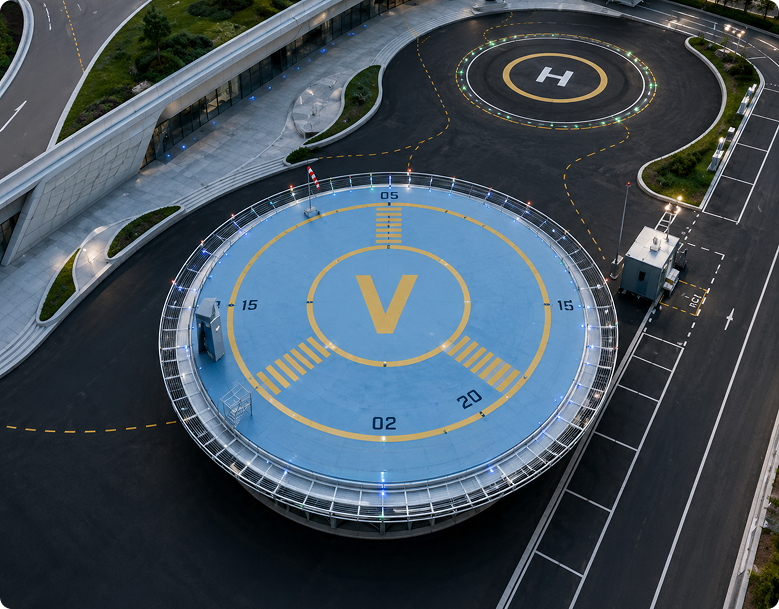
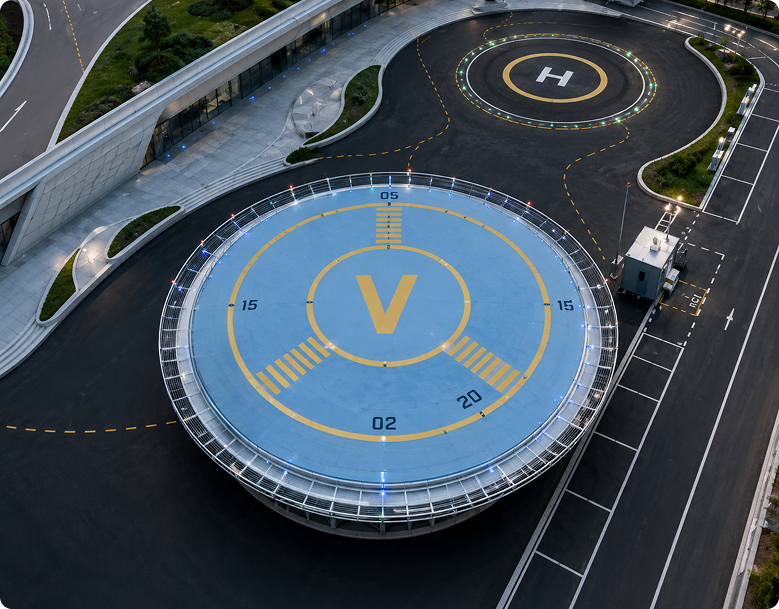
done

Changed region(s): [[0.2157, 0.468, 0.3389, 0.7176], [0.3697, 0.2496, 0.4313, 0.3744]]

diff --git a/app/heliports-&-vertiports-solutions/page.tsx b/app/heliports-&-vertiports-solutions/page.tsx
@@ -18,7 +18,7 @@ const HelideckPlatformSolutions = () => {
                 backgroundImage={"/hhero.png"}
             />
             <SecondHeli
-                heading="Reliable Heliports & Vertiports for Offshore & Onshore <br/> Operations"
+                heading="Reliable Heliports & Vertiports for Offshore, Urban & Remote Operations"
                 desc="Engineered for safety, durability, and operational efficiency, our heliport and vertiport solutions support secure helicopter landing operations across offshore, marine, industrial, and remote environments."
                 heading2="Built for Safe Aviation Operations"
                 desc2="Cranton’s heliport and vertiport solutions are designed to deliver stable, compliant, and high-performance landing areas for helicopters operating in demanding environments. Built using durable materials and precision engineering, our systems ensure long-term reliability, operational safety, and efficient deployment. <br /> <br /> From offshore energy facilities to temporary remote operations, our heliports and vertiports are tailored to meet aviation standards while supporting safe and uninterrupted helicopter access."
@@ -47,7 +47,7 @@ const HelideckPlatformSolutions = () => {
                 },
                 {
                     icon: "/h2.png",
-                    title: "Weather & Corrosion Resistant",
+                    title: "Weatherproof & Durable",
                     desc: "Designed to perform in challenging marine and offshore environments with long-lasting durability.",
                 },
                 {
@@ -68,13 +68,14 @@ const HelideckPlatformSolutions = () => {
                         image: "/hb.png",
                         imageAlt: "Engineering",
                         paragraphs: [
-                            "Our helideck systems are engineered to provide dependable helicopter access across offshore, marine, industrial, and emergency response operations. Combining structural reliability with aviation-focused safety, the platforms are built for continuous performance in critical environments.",
+                            "Cranton helideck platforms are engineered to provide safe, durable, and reliable landing infrastructure for offshore and land-based aviation operations. Manufactured using high-strength aluminium, our platforms are designed to perform in harsh environmental conditions while maintaining structural integrity, operational safety, and long-term efficiency.",
+                            "From permanent installations to portable deployment systems, every helideck platform is developed to meet international aviation standards and project-specific operational requirements. With a strong focus on lightweight construction, corrosion resistance, and low maintenance performance, Cranton delivers dependable solutions for critical aviation environments."
                         ],
                         points: [
-                            { title: "High-strength structural framework" },
-                            { title: "Optimized stability and safety" },
-                            { title: "Long operational lifespan" },
-                            { title: "Low maintenance requirements" },
+                            { title: "Lightweight Aluminium Construction",description: "Strong, corrosion-resistant structures designed for demanding environments." },
+                            { title: "Fixed & Portable Platform Solutions",description: "Flexible helideck systems for permanent, temporary, and remote operations."  },
+                            { title: "Engineered For Harsh Conditions",description: "Built to withstand offshore, marine, industrial, and remote environments."  },
+                            { title: "Safe, Durable & Compliant",description: "Designed to meet international aviation safety and operational standards."  },
                         ],
                     },
                 ]}
@@ -83,11 +84,12 @@ const HelideckPlatformSolutions = () => {
                 badge=""
                 heading="Where It's Used"
                 industries={[
-                    { name: "Offshore Oil & Gas Platforms", image: "/w11.png" },
-                    { name: "Marine & Vessel Operations", image: "/w12.png" },
-                    { name: "Industrial & Remote Facilities", image: "/w13.png" },
-                    { name: "Temporary Aviation Installations", image: "/w14.png" },
-                    { name: "Emergency Response Sites", image: "/w15.png" },
+                    { name: "Emergency & Medical Operations", image: "/w11new.png" },
+                    { name: "Marine & Vessel Operations", image: "/w12new.png" },
+                    { name: "Construction & Infrastructure Projects", image: "/w13.png" },
+                    { name: "Temporary Aviation Installations", image: "/w14new.png" },
+                    { name: "Emergency Response Sites", image: "/w15new.png" },
+                    { name: "Healthcare", image: "/w16new.png" },
                 ]}
                 className="md:py-0! md:pb-10!"
             />

diff --git a/components/second-heli.tsx b/components/second-heli.tsx
@@ -33,7 +33,7 @@ const SecondHeli = (props: HealthcareSectionProps) => {
                             </p>
                             <div>
                                 {/* Gradient Button with SVG Icon */}
-                                <Button>Inquire Now</Button>
+                                <Button href='/contact'>Inquire Now</Button>
                             </div>
                         </div>
 
@@ -56,49 +56,49 @@ const SecondHeli = (props: HealthcareSectionProps) => {
                         <h3 className="text-[20px] md:text-3xl lg:text-[36px] font-medium leading-[1.2] text-[#0a0f1e] mb-6">
                             {props.heading2 || "Trusted HIS Expertise for Healthcare Providers"}
                         </h3>
-                        <p className="text-md text-black mb-8" dangerouslySetInnerHTML={{ __html: props.desc2 || "" }}>
+                        <p className="text-md text-black mb-6" dangerouslySetInnerHTML={{ __html: props.desc2 || "" }}>
                         </p>
 
                         {/* Features Grid */}
-                        <div className="grid grid-cols-2 sm:grid-cols-2 gap-6">
+                        <div className="grid grid-cols-1 md:grid-cols-2 gap-2 md:gap-4">
                             {/* Feature 1 */}
-                            <div className="flex flex-col gap-4">
+                            <div className="flex flex-col gap-4 bg-[#F5F5F5] p-3 rounded-lg">
                                 <div>
                                     <h4 className="font-semibold text-foreground leading-tight mb-1">
                                         {props.titles[0]}
                                     </h4>
-                                    <p className="text-[12px] leading-4 md:leading-relaxed md:text-sm text-black">
+                                    <p className="text-[12px] leading-4 md:leading-[19px] md:text-[14px] text-black">
                                         {props.para[0]}
                                     </p>
                                 </div>
                             </div>
 
                             {/* Feature 2 */}
-                            <div className="flex flex-col gap-4">
+                            <div className="flex flex-col gap-4 bg-[#F5F5F5] p-3 rounded-lg">
                                 <div>
                                     <h4 className="font-semibold text-foreground leading-tight mb-1">
                                         {props.titles[1]}
                                     </h4>
-                                    <p className="text-[12px] leading-4 md:leading-relaxed md:text-sm text-black">
+                                    <p className="text-[12px] leading-4 md:leading-[19px] md:text-[14px] text-black">
                                         {props.para[1]}
                                     </p>
                                 </div>
                             </div>
 
                             {/* Feature 3 */}
-                            <div className="flex flex-col gap-4">
+                            <div className="flex flex-col gap-4 bg-[#F5F5F5] p-3 rounded-lg">
                                 <div>
                                     <h4 className="font-semibold text-foreground leading-tight mb-1">
                                         {props.titles[2]}
                                     </h4>
-                                    <p className="text-[12px] leading-4 md:leading-relaxed md:text-sm text-black">
+                                    <p className="text-[12px] leading-4 md:leading-[19px] md:text-[14px] text-black">
                                         {props.para[2]}
                                     </p>
                                 </div>
                             </div>
 
                             {/* Feature 4 */}
-                            <div className="flex flex-col gap-4">
+                            <div className="flex flex-col gap-4 bg-[#F5F5F5] p-3 rounded-lg">
                                 <div>
                                     <h4 className="font-semibold text-foreground leading-tight mb-1">
                                         {props.titles[3]}

diff --git a/app/heliports-&-vertiports-lighting-solutions/page.tsx b/app/heliports-&-vertiports-lighting-solutions/page.tsx
@@ -28,34 +28,33 @@ const HeliportsLightingSolutions = () => {
           "From precision landing guidance to environmental awareness, our lighting portfolio supports safe aircraft operations in even the most demanding conditions."
         }
         image2={"/heliport-vertiports/right.jpg"}
-        image1={"/heliport-vertiports/left.png"}
+        image1={"/heliport-vertiports/newleft.png"}
       />
       <HvGrey
         sections={[
           {
             title: "Complete Lighting Ecosystem",
             subtitle: "End-to-End Airside Visibility.",
-            image: "/heliport-vertiports/hv-gray.png",
+            image: "/heliport-vertiports/secondsection.png",
             imageAlt: "Engineering Precision",
 
             points: [
-              {
-                title:
-                  "Approach & Guidance Lighting – Clear visual cues for pilots",
-              },
-              {
-                title:
-                  "FATO & TLOF Lighting – Accurate landing and lift-off zone marking",
-              },
-              {
-                title:
-                  "Floodlighting Systems – Surface and obstacle visibility",
-              },
-              {
-                title:
-                  "Wind Direction Indicators – Real-time environmental awareness",
-              },
-              { title: "Perimeter Lighting – Enhanced safety boundaries" },
+            {
+    title: "LED Perimeter Lights (Surface Mounted)",
+    description: "Elevated lighting systems designed to clearly define helideck and landing area boundaries for safe operations."
+  },
+  {
+    title: "LED Perimeter Lights (Flush Mounted)",
+    description: "Low-profile inset lighting solutions that provide clear visual guidance while maintaining a smooth deck surface. "
+  },
+   {
+    title: "LED Wind Direction Indicator",
+    description: "Illuminated wind indication systems that provide pilots with clear wind direction visibility in all operating conditions. "
+  },
+   {
+    title: "LED Wind Direction Indicator",
+    description: "Illuminated wind indication systems that provide pilots with clear wind direction visibility in all operating conditions. "
+  },
             ],
             paragraphs: [
               "Each component is engineered to integrate seamlessly, delivering consistent performance and unified control.",

diff --git a/components/hv-grey.tsx b/components/hv-grey.tsx
@@ -6,6 +6,7 @@ import SectionHeading from "./ui/section-heading";
 type Point = {
   title: string;
   subtitle?: string;
+   description?: string;
 };
 
 type SectionItem = {
@@ -52,22 +53,29 @@ export default function HvGrey({
               {section.subtitle}
             </p>
             
+<div className="space-y-3 py-4">
+  {section.points.map((item, i) => (
+    <div key={i} className="space-y-2">
 
-            <div className="space-y-3 py-4">
-              {section.points.map((item, i) => (
-                <div key={i} className="flex items-start gap-3">
+      <div className="flex items-start gap-3">
+        <div className="shrink-0">
+          <CheckIcon />
+        </div>
 
-                  <div className="shrink-0">
-                    <CheckIcon />
-                  </div>
+        <p className="text-[14px] md:text-[15px] font-normal text-black leading-snug">
+          {item.title}
+        </p>
+      </div>
 
-                  <p className="text-[14px] md:text-[15px] font-normal text-black leading-snug">
-                    {item.title}
-                  </p>
+      {item.description && (
+        <p className="text-[13px] md:text-[14px] text-[#555555] leading-relaxed">
+          {item.description}
+        </p>
+      )}
 
-                </div>
-              ))}
-            </div>
+    </div>
+  ))}
+</div>
 
             <div className="space-y-3 md:space-y-4 pt-2">
               {section.paragraphs.map((para, i) => (

diff --git a/components/activities-helideck/splitsection-helideck.tsx b/components/activities-helideck/splitsection-helideck.tsx
@@ -5,6 +5,7 @@ import SectionHeading from "../ui/section-heading";
 
 type Point = {
   title: string;
+   description?: string;
 };
 
 type SectionItem = {
@@ -58,21 +59,27 @@ export default function SplitSectionHelideck({
               ))}
             </div>
 
-            <div className="space-y-3 py-4">
-              {section.points.map((item, i) => (
-                <div key={i} className="flex items-start gap-3">
+            {section.points.map((item, i) => (
+  <div key={i} className="space-y-2 pt-3">
+    
+    <div className="flex items-start gap-3">
+      <div className="shrink-0">
+        <CheckIcon />
+      </div>
 
-                  <div className="shrink-0">
-                    <CheckIcon />
-                  </div>
+      <p className="text-[14px] md:text-[17px] font-medium text-black leading-snug">
+        {item.title}
+      </p>
+    </div>
 
-                  <p className="text-[14px] md:text-[17px] font-medium text-black leading-snug">
-                    {item.title}
-                  </p>
+    {item.description && (
+      <p className="text-[13px] md:text-[15px] text-[#555] leading-relaxed">
+        {item.description}
+      </p>
+    )}
 
-                </div>
-              ))}
-            </div>
+  </div>
+))}
 
           </div>
 

diff --git a/components/industries-serve.tsx b/components/industries-serve.tsx
@@ -31,7 +31,7 @@ export default function IndustriesServe({ badge, heading, industries, className 
                     {industries.map((industry, index) => (
                         <div
                             key={index}
-                            className="flex items-center gap-2 md:gap-4 bg-[#F5F5F5] md:p-3 rounded-full hover:shadow-md transition-shadow duration-300"
+                            className="flex items-center gap-2 md:gap-4 bg-[#F5F5F5]  rounded-full hover:shadow-md transition-shadow duration-300"
                         >
                             <div className="relative md:w-14 md:h-14 w-10 h-10 rounded-full overflow-hidden shrink-0">
                                 <Image
@@ -41,7 +41,7 @@ export default function IndustriesServe({ badge, heading, industries, className 
                                     className="object-cover"
                                 />
                             </div>
-                            <span className="text-[9px] md:text-[17px] text-[#1a1a1a] font-medium">
+                            <span className="text-[9px] md:text-[16px] leading-5 text-[#1a1a1a] font-medium pr-2">
                                 {industry.name}
                             </span>
                         </div>

diff --git a/components/about/four-cards.tsx b/components/about/four-cards.tsx
@@ -124,7 +124,7 @@ export default function FourCards({ heading, para, isBlack = false, features }: 
                             whileInView={{ opacity: 1, y: 0 }}
                             viewport={{ once: false }}
                             transition={{ duration: 0.5, delay: idx * 0.15 }}
-                            className="flex flex-col items-start justify-between p-6 h-full min-h-70 rounded-[10px] border border-[#969696] bg-[rgba(255,255,255,0.02)]"
+                            className="flex flex-col  p-6 h-full min-h-70 rounded-[10px] border border-[#969696] bg-[rgba(255,255,255,0.02)]"
                         >
                             <div className="mb-4 w-12 h-12 relative">
                                 <Image src={feature.icon} alt={feature.title} height={500} width={500} />

diff --git a/components/faqs.tsx b/components/faqs.tsx
@@ -86,7 +86,7 @@ export default function Faqs({
 
                     <div className="relative md:block hidden w-full  rounded-2xl overflow-hidden shadow-lg h-100">
                         <Image
-                            src="/faqs-left.png"
+                            src="/faq-new.png"
                             alt="faqs image"
                             fill
                             className="object-cover"
